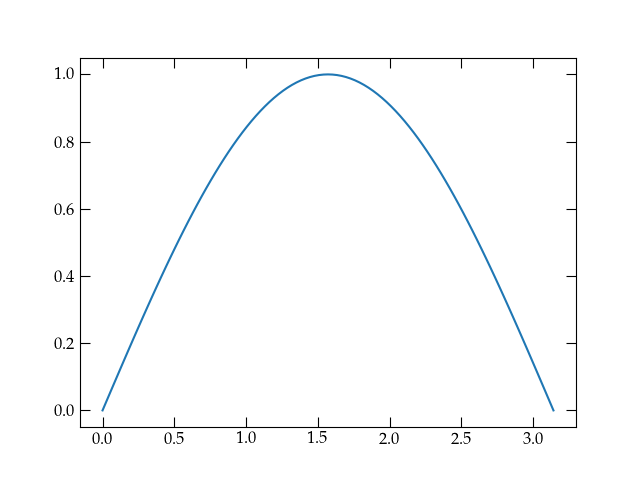
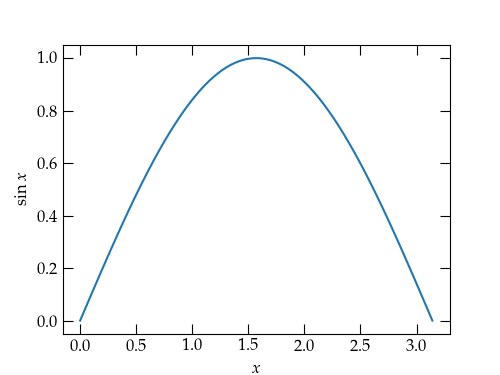
Update

diff --git a/docs/NumericalLinearAlgebra.md b/docs/NumericalLinearAlgebra.md
@@ -42,6 +42,8 @@ All of the standard functions have NumPy versions that “broadcast” in this w
     y = np.sin(x)
     fig, ax = plt.subplots()
     ax.plot(x, y)
+    ax.set_xlabel('$x$')
+    ax.set_ylabel(r'$\sin{x}$')
 
 ![Sine plot](figs/sineplot.png)
 
